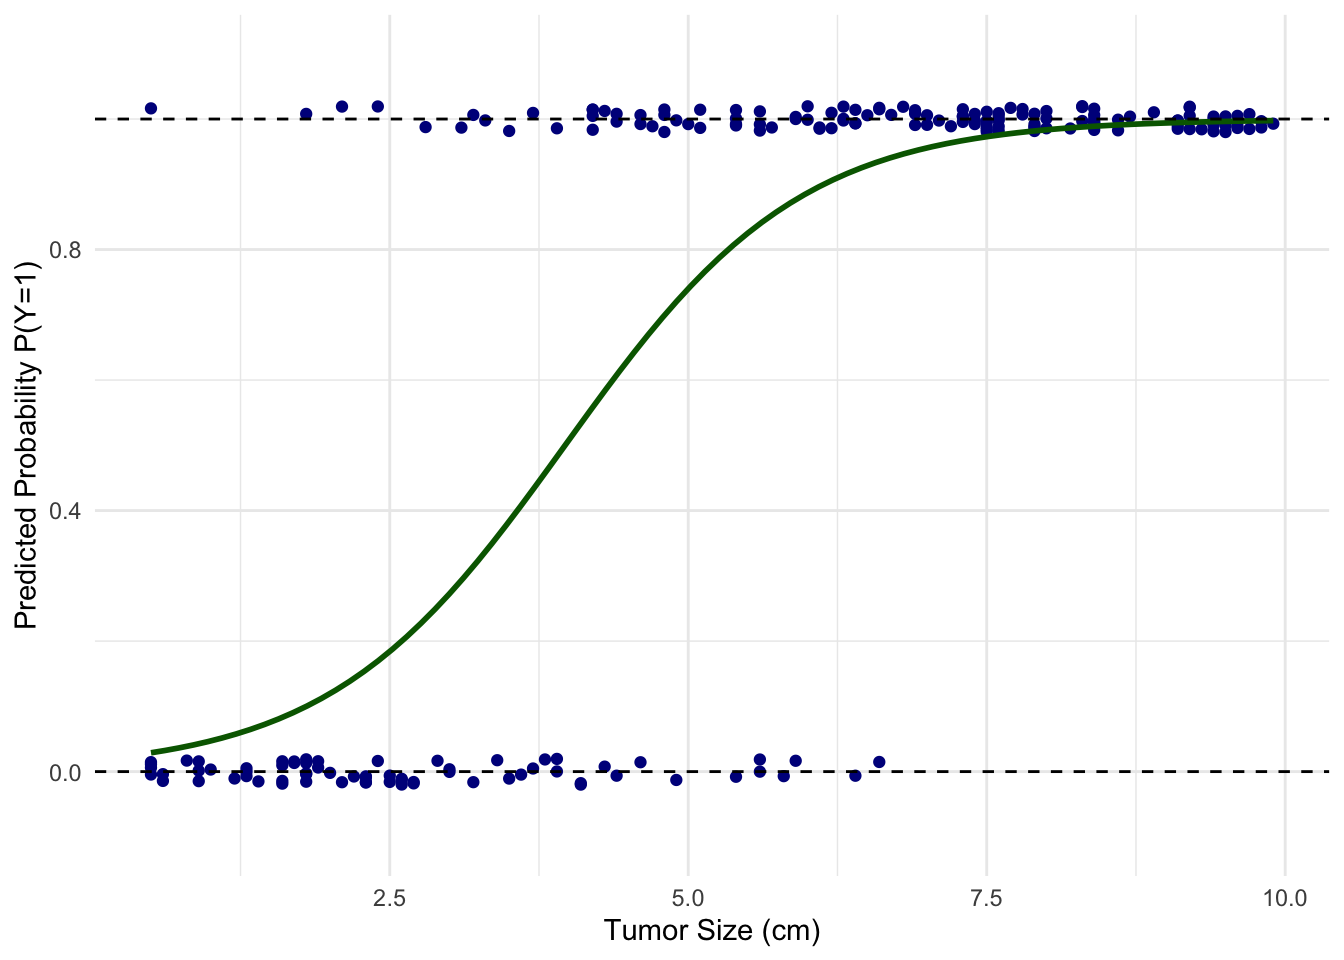
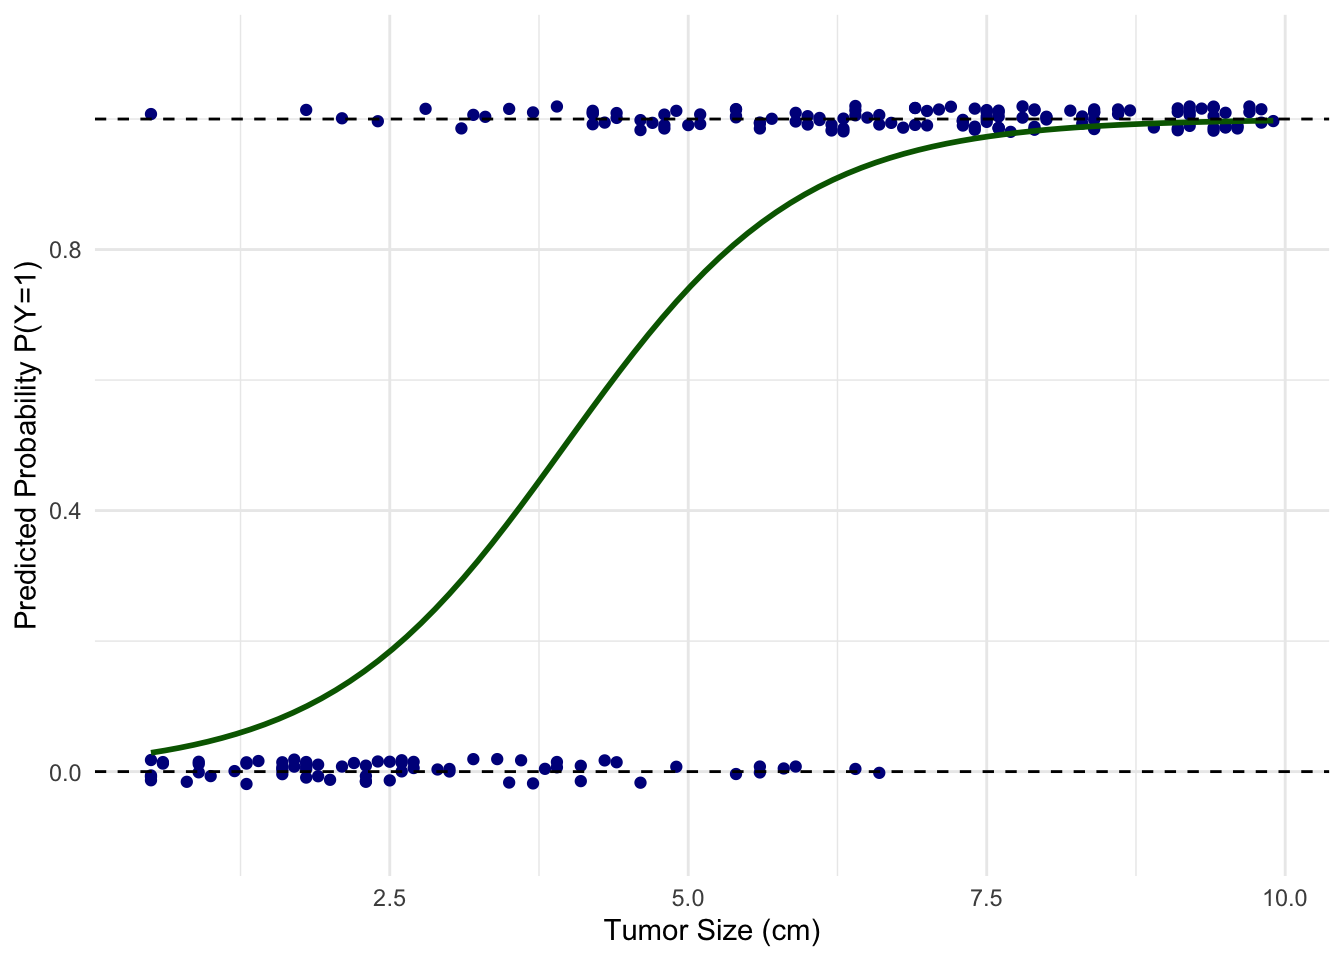
Built site for gh-pages

diff --git a/resources.html b/resources.html
@@ -165,9 +165,10 @@ ul.task-list li input[type="checkbox"] {
     <h2 id="toc-title">On this page</h2>
    
   <ul>
-  <li><a href="#r-programming-and-statistics" id="toc-r-programming-and-statistics" class="nav-link active" data-scroll-target="#r-programming-and-statistics">R Programming and Statistics</a></li>
+  <li><a href="#all-of-us-workbench" id="toc-all-of-us-workbench" class="nav-link active" data-scroll-target="#all-of-us-workbench">All of Us Workbench</a></li>
+  <li><a href="#course-supplemental-materials" id="toc-course-supplemental-materials" class="nav-link" data-scroll-target="#course-supplemental-materials">Course Supplemental Materials</a></li>
+  <li><a href="#r-programming-and-statistics" id="toc-r-programming-and-statistics" class="nav-link" data-scroll-target="#r-programming-and-statistics">R Programming and Statistics</a></li>
   <li><a href="#useful-r-packages" id="toc-useful-r-packages" class="nav-link" data-scroll-target="#useful-r-packages">Useful R Packages</a></li>
-  <li><a href="#all-of-us-workbench" id="toc-all-of-us-workbench" class="nav-link" data-scroll-target="#all-of-us-workbench">All of Us Workbench</a></li>
   </ul>
 </nav>
     </div>
@@ -193,6 +194,20 @@ ul.task-list li input[type="checkbox"] {
 </header>
 
 
+<section id="all-of-us-workbench" class="level2">
+<h2 class="anchored" data-anchor-id="all-of-us-workbench">All of Us Workbench</h2>
+<ul>
+<li><a href="https://support.researchallofus.org/hc/">Support Hub</a></li>
+<li><a href="https://www.youtube.com/@AllOfUsResearcherWorkbench">All of Us YouTube Channel</a></li>
+</ul>
+</section>
+<section id="course-supplemental-materials" class="level2">
+<h2 class="anchored" data-anchor-id="course-supplemental-materials">Course Supplemental Materials</h2>
+<ul>
+<li><a href="resources/analysis_plan_template.docx">Analysis Plan Template</a></li>
+<li><a href="resources/guide_legacy_wb.pdf">Researcher’s Guide to Using the Workbench</a></li>
+</ul>
+</section>
 <section id="r-programming-and-statistics" class="level2">
 <h2 class="anchored" data-anchor-id="r-programming-and-statistics">R Programming and Statistics</h2>
 <ul>
@@ -241,13 +256,6 @@ ul.task-list li input[type="checkbox"] {
 <li><a href="https://www.themillerlab.io/posts/survival_analysis/">Survival Analysis in R - The Miller Lab</a></li>
 <li><a href="https://stats.oarc.ucla.edu/wp-content/uploads/2025/02/survival_r_full.html">Introduction to Survival Analysis in R - UCLA</a></li>
 </ul></li>
-</ul>
-</section>
-<section id="all-of-us-workbench" class="level2">
-<h2 class="anchored" data-anchor-id="all-of-us-workbench">All of Us Workbench</h2>
-<ul>
-<li><a href="https://support.researchallofus.org/hc/">Support Hub</a></li>
-<li><a href="https://www.youtube.com/@AllOfUsResearcherWorkbench">All of Us YouTube Channel</a></li>
 </ul>
 
 